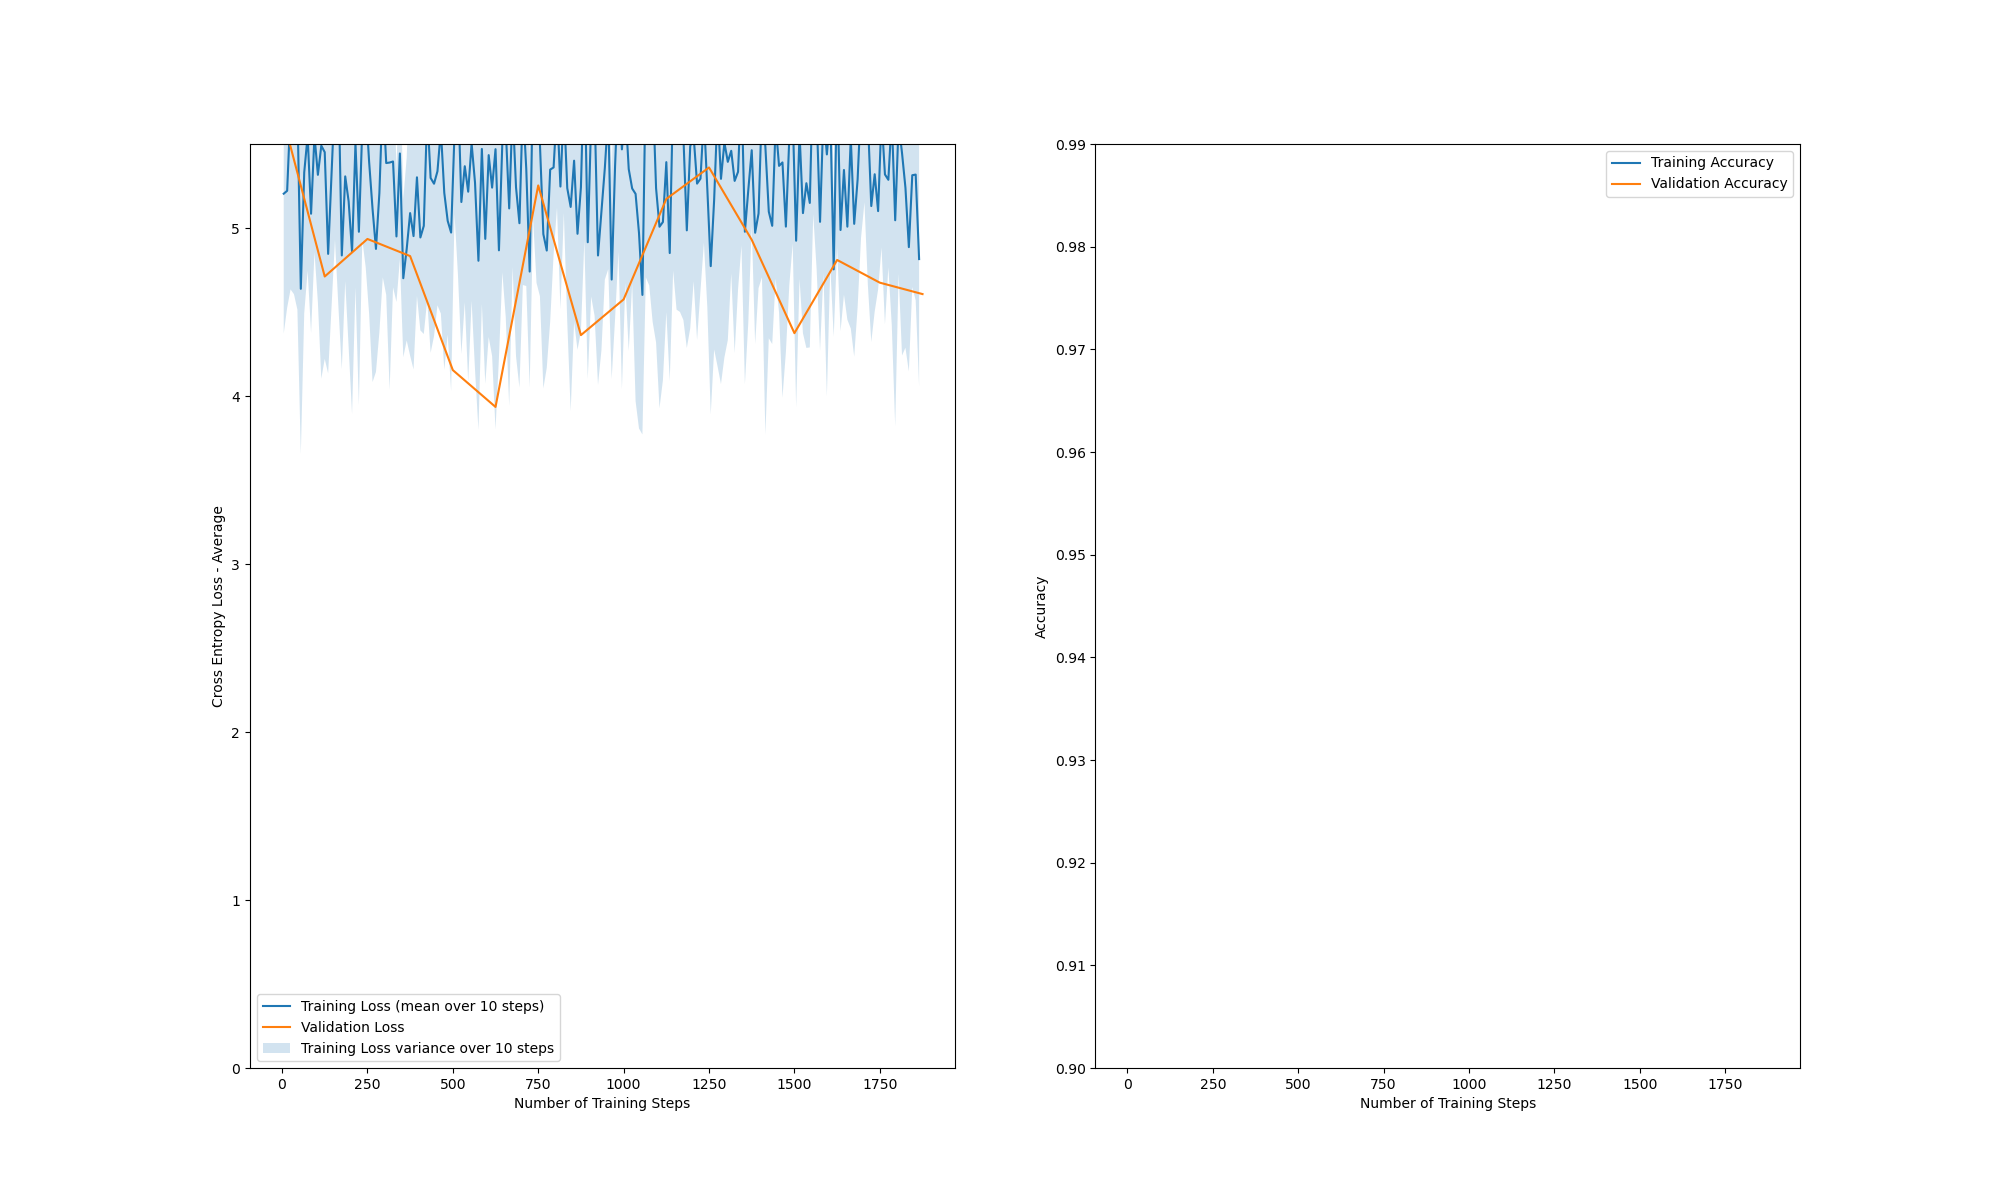
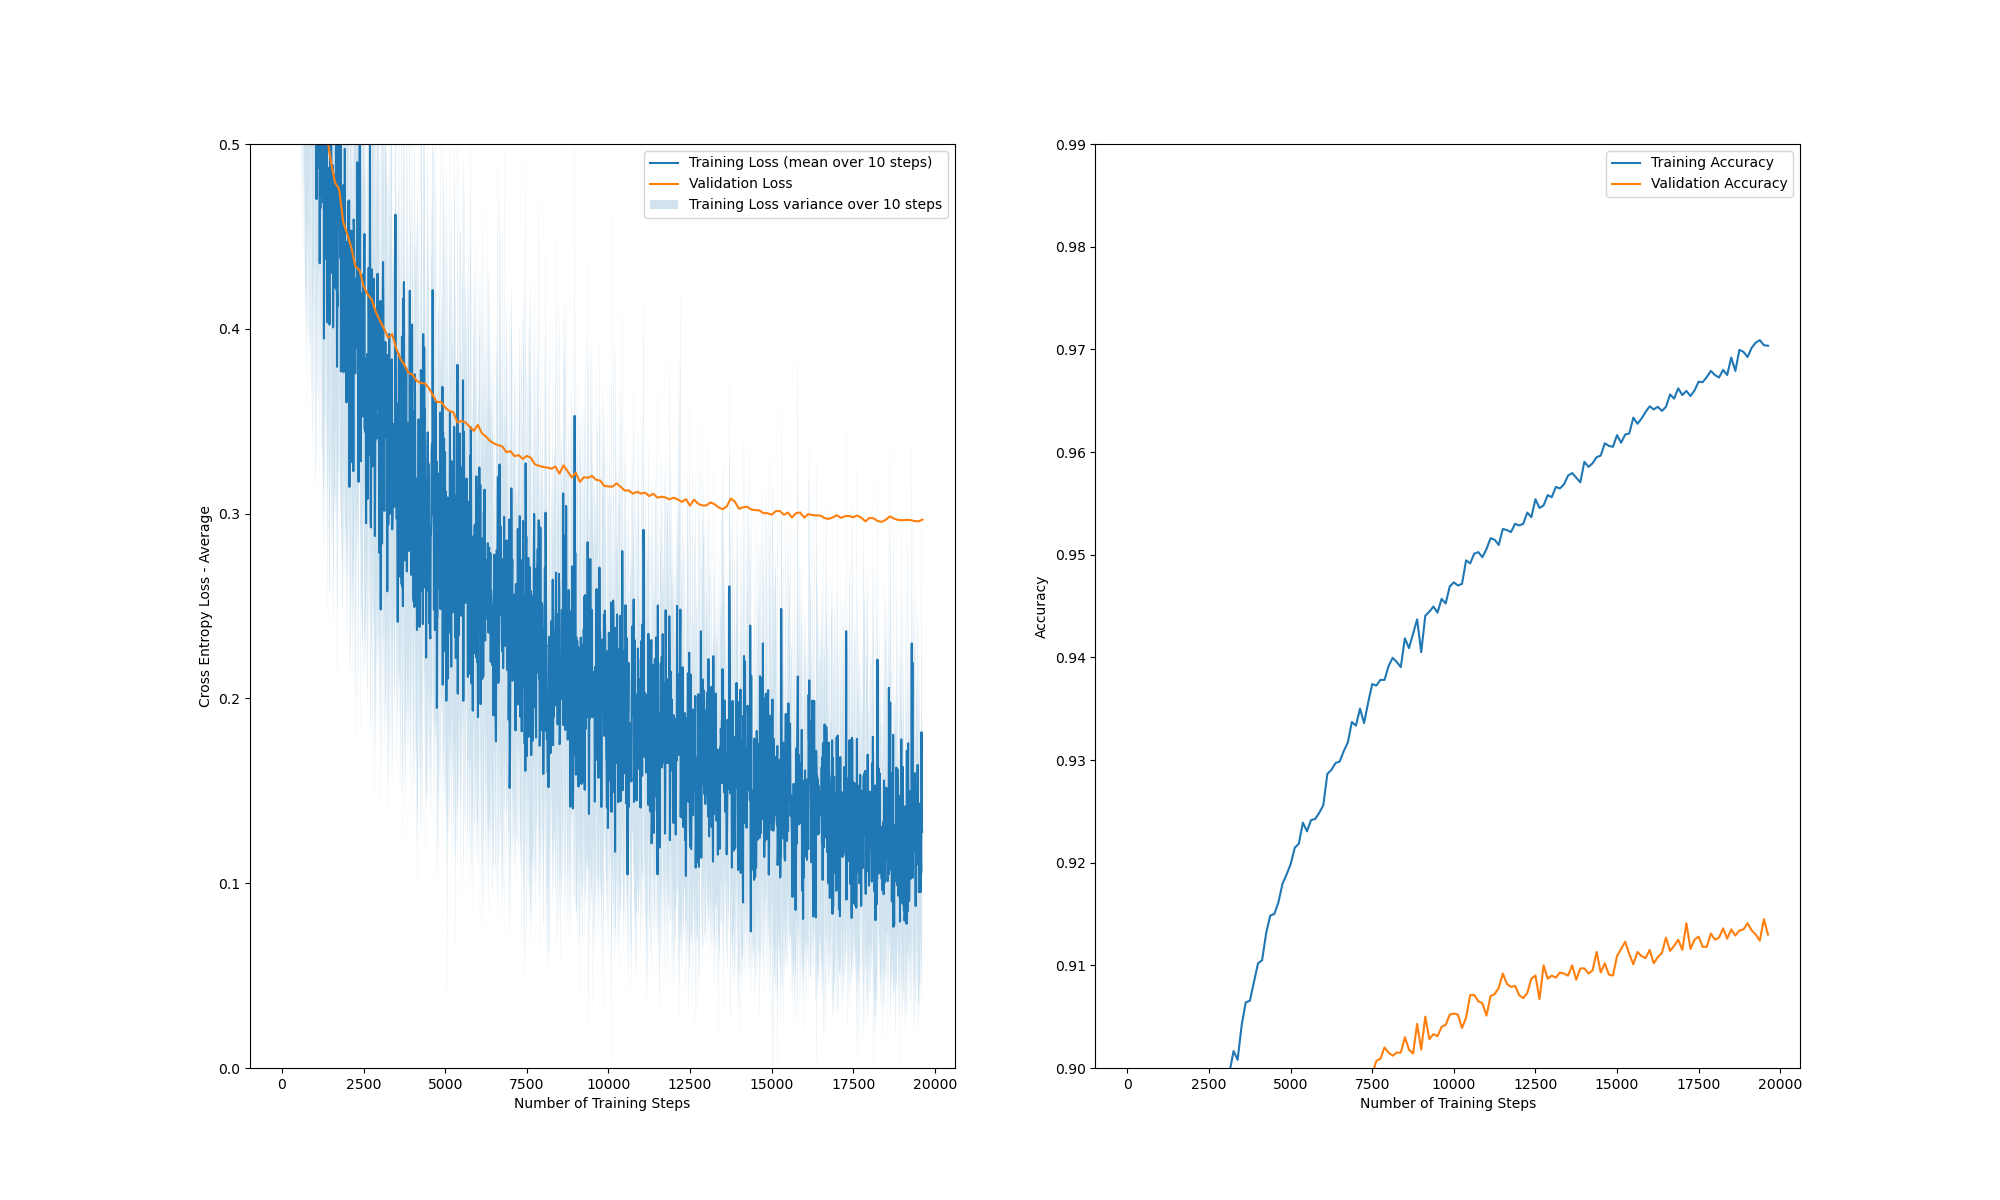
erad

diff --git a/assignment2/task2.py b/assignment2/task2.py
@@ -42,6 +42,11 @@ class SoftmaxTrainer(BaseTrainer):
         self.use_momentum = use_momentum
         # Init a history of previous gradients to use for implementing momentum
         self.previous_grads = [np.zeros_like(w) for w in self.model.ws]
+        
+        # self.model.ws[0]=np.random.uniform(-1, 1, (785, 64))
+        # self.model.ws[1]=np.random.uniform(-1, 1, (64, 10))
+        self.model.ws[0]=np.random.normal(0,1/np.sqrt(785), size=(785, 64))
+        self.model.ws[1]=np.random.normal(0,1/np.sqrt(64), size=(64, 10))
 
     def train_step(self, X_batch: np.ndarray, Y_batch: np.ndarray):
         """
@@ -56,8 +61,6 @@ class SoftmaxTrainer(BaseTrainer):
             loss value (float) on batch
         """
         # TODO: Implement this function (task 2c)
-        self.model.ws[0]=np.random.uniform(-1, 1, (785, 64))
-        self.model.ws[1]=np.random.uniform(-1, 1, (64, 10))
         
         
         forwardStep=self.model.forward(X_batch)
@@ -139,8 +142,8 @@ if __name__ == "__main__":
     # Plot loss for first model (task 2c)
     plt.figure(figsize=(20, 12))
     plt.subplot(1, 2, 1)
-    plt.ylim([0., 5.5])
-    # plt.ylim([0., .5])
+    # plt.ylim([0., 5.5])
+    plt.ylim([0., .5])
     utils.plot_loss(train_history["loss"],
                     "Training Loss", npoints_to_average=10)
     utils.plot_loss(val_history["loss"], "Validation Loss")
